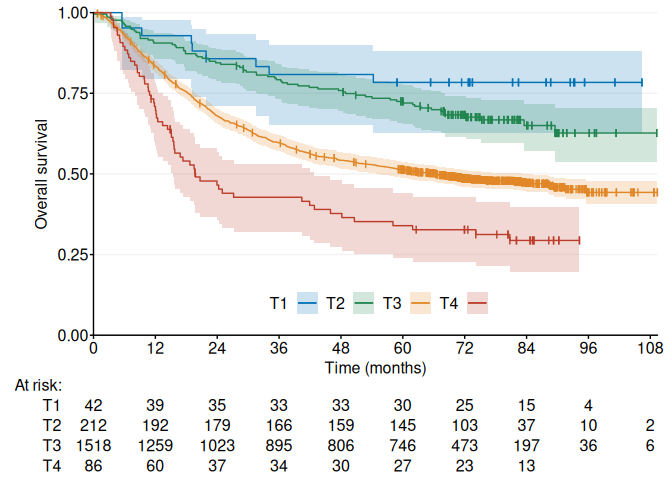
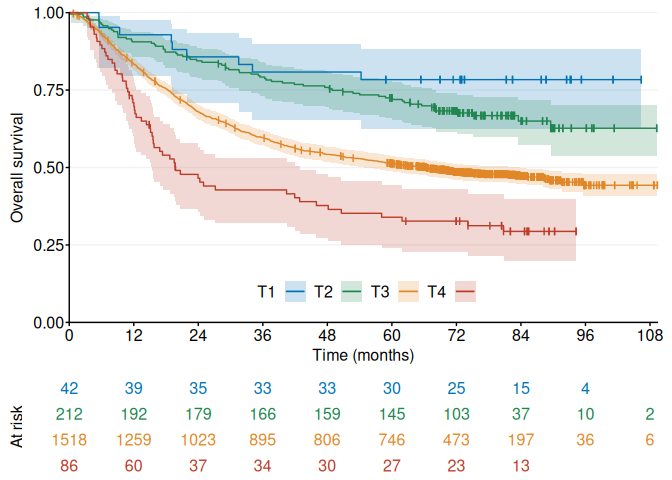
v0.14.0

diff --git a/docs/index.html b/docs/index.html
@@ -22,7 +22,7 @@
 
     <a class="navbar-brand me-2" href="index.html">ggKaplanMeier</a>
 
-    <small class="nav-text text-muted me-auto" data-bs-toggle="tooltip" data-bs-placement="bottom" title="">0.13.1</small>
+    <small class="nav-text text-muted me-auto" data-bs-toggle="tooltip" data-bs-placement="bottom" title="">0.14.0</small>
 
 
     <button class="navbar-toggler" type="button" data-bs-toggle="collapse" data-bs-target="#navbar" aria-controls="navbar" aria-expanded="false" aria-label="Toggle navigation">
@@ -84,7 +84,7 @@
 <div class="sourceCode" id="cb4"><pre class="downlit sourceCode r">
 <code class="sourceCode R"><span><span class="kw"><a href="https://rdrr.io/r/base/library.html" class="external-link">library</a></span><span class="op">(</span><span class="va"><a href="https://github.com/hongconsulting/ggKaplanMeier" class="external-link">ggKaplanMeier</a></span><span class="op">)</span></span>
 <span><span class="va">data</span> <span class="op">&lt;-</span> <span class="fu">survival</span><span class="fu">::</span><span class="va"><a href="https://rdrr.io/pkg/survival/man/colon.html" class="external-link">colon</a></span></span>
-<span><span class="va">fig1</span> <span class="op">&lt;-</span> <span class="fu"><a href="reference/ggKM.html">ggKM</a></span><span class="op">(</span><span class="va">data</span><span class="op">$</span><span class="va">time</span> <span class="op">*</span> <span class="fl">12</span> <span class="op">/</span> <span class="fl">365.2425</span>, <span class="va">data</span><span class="op">$</span><span class="va">status</span>, <span class="va">data</span><span class="op">$</span><span class="va">extent</span>, colors <span class="op">=</span> <span class="fu">ggsci</span><span class="fu">::</span><span class="fu"><a href="https://nanx.me/ggsci/reference/pal_nejm.html" class="external-link">pal_nejm</a></span><span class="op">(</span><span class="op">)</span><span class="op">(</span><span class="fl">4</span><span class="op">)</span><span class="op">[</span><span class="fu"><a href="https://rdrr.io/r/base/c.html" class="external-link">c</a></span><span class="op">(</span><span class="fl">2</span>, <span class="fl">4</span>, <span class="fl">3</span>, <span class="fl">1</span><span class="op">)</span><span class="op">]</span>, legend.direction <span class="op">=</span> <span class="st">"horizontal"</span>, legend.labels <span class="op">=</span> <span class="fu"><a href="https://rdrr.io/r/base/c.html" class="external-link">c</a></span><span class="op">(</span><span class="st">"T1"</span>, <span class="st">"T2"</span>, <span class="st">"T3"</span>, <span class="st">"T4"</span><span class="op">)</span>, legend.pos <span class="op">=</span> <span class="fu"><a href="https://rdrr.io/r/base/c.html" class="external-link">c</a></span><span class="op">(</span><span class="fl">0.5</span>, <span class="fl">0.1</span><span class="op">)</span>, margin.risk <span class="op">=</span> <span class="fl">24</span>, title.s <span class="op">=</span> <span class="st">"Overall survival"</span>, title.t <span class="op">=</span> <span class="st">"Time (months)"</span><span class="op">)</span></span>
+<span><span class="va">fig1</span> <span class="op">&lt;-</span> <span class="fu"><a href="reference/ggKM.html">ggKM</a></span><span class="op">(</span><span class="va">data</span><span class="op">$</span><span class="va">time</span> <span class="op">*</span> <span class="fl">12</span> <span class="op">/</span> <span class="fl">365.2425</span>, <span class="va">data</span><span class="op">$</span><span class="va">status</span>, <span class="va">data</span><span class="op">$</span><span class="va">extent</span>, colors <span class="op">=</span> <span class="fu">ggsci</span><span class="fu">::</span><span class="fu"><a href="https://nanx.me/ggsci/reference/pal_nejm.html" class="external-link">pal_nejm</a></span><span class="op">(</span><span class="op">)</span><span class="op">(</span><span class="fl">4</span><span class="op">)</span><span class="op">[</span><span class="fu"><a href="https://rdrr.io/r/base/c.html" class="external-link">c</a></span><span class="op">(</span><span class="fl">2</span>, <span class="fl">4</span>, <span class="fl">3</span>, <span class="fl">1</span><span class="op">)</span><span class="op">]</span>, legend.direction <span class="op">=</span> <span class="st">"horizontal"</span>, legend.labels <span class="op">=</span> <span class="fu"><a href="https://rdrr.io/r/base/c.html" class="external-link">c</a></span><span class="op">(</span><span class="st">"T1"</span>, <span class="st">"T2"</span>, <span class="st">"T3"</span>, <span class="st">"T4"</span><span class="op">)</span>, legend.pos <span class="op">=</span> <span class="fu"><a href="https://rdrr.io/r/base/c.html" class="external-link">c</a></span><span class="op">(</span><span class="fl">0.5</span>, <span class="fl">0.1</span><span class="op">)</span>, risk.table <span class="op">=</span> <span class="fl">2</span>, title.s <span class="op">=</span> <span class="st">"Overall survival"</span>, title.t <span class="op">=</span> <span class="st">"Time (months)"</span><span class="op">)</span></span>
 <span><span class="fu"><a href="https://rdrr.io/r/base/print.html" class="external-link">print</a></span><span class="op">(</span><span class="va">fig1</span><span class="op">)</span></span></code></pre></div>
 <p><img src="reference/figures/README-example_2-1.png"><!-- --></p>
 </div>

diff --git a/docs/reference/ggKM.html b/docs/reference/ggKM.html
@@ -9,7 +9,7 @@ table."></head><body>
 
     <a class="navbar-brand me-2" href="../index.html">ggKaplanMeier</a>
 
-    <small class="nav-text text-muted me-auto" data-bs-toggle="tooltip" data-bs-placement="bottom" title="">0.13.1</small>
+    <small class="nav-text text-muted me-auto" data-bs-toggle="tooltip" data-bs-placement="bottom" title="">0.14.0</small>
 
 
     <button class="navbar-toggler" type="button" data-bs-toggle="collapse" data-bs-target="#navbar" aria-controls="navbar" aria-expanded="false" aria-label="Toggle navigation">
@@ -71,7 +71,7 @@ table.</p>
 <span>  line.width <span class="op">=</span> <span class="fl">0.5</span>,</span>
 <span>  line.height <span class="op">=</span> <span class="fl">0.025</span>,</span>
 <span>  max.t <span class="op">=</span> <span class="cn">NULL</span>,</span>
-<span>  risk.table <span class="op">=</span> <span class="cn">TRUE</span>,</span>
+<span>  risk.table <span class="op">=</span> <span class="fl">1</span>,</span>
 <span>  risk.table.prop <span class="op">=</span> <span class="fl">0.2</span>,</span>
 <span>  t.labels <span class="op">=</span> <span class="cn">NULL</span>,</span>
 <span>  textsize.axis <span class="op">=</span> <span class="fl">12</span>,</span>
@@ -244,7 +244,10 @@ the Kaplan–Meier plot and risk table are displayed.</p></dd>
 
 
 <dt id="arg-risk-table">risk.table<a class="anchor" aria-label="anchor" href="#arg-risk-table"></a></dt>
-<dd><p>Logical; if <code>TRUE</code>, show risk table. Default = <code>TRUE</code>.</p></dd>
+<dd><p>Integer specifying the risk table mode:</p><ul><li><p><code>0</code>: No risk table</p></li>
+<li><p><code>1</code> (default): Labelled risk table</p></li>
+<li><p><code>2</code>: Color-coded risk table</p></li>
+</ul></dd>
 
 
 <dt id="arg-risk-table-prop">risk.table.prop<a class="anchor" aria-label="anchor" href="#arg-risk-table-prop"></a></dt>
@@ -282,7 +285,7 @@ time-axis breaks defined by <code>breaks.t</code>.</p></dd>
 </dl></div>
     <div class="section level2">
     <h2 id="value">Value<a class="anchor" aria-label="anchor" href="#value"></a></h2>
-    <p>A <code>ggplot</code> (+ <code>patchwork</code> if <code>risk.table</code> = <code>TRUE</code>) object.</p>
+    <p>A <code>ggplot</code> (+ <code>patchwork</code> if <code>risk.table</code> ≥ <code>1</code>) object.</p>
     </div>
     <div class="section level2">
     <h2 id="details">Details<a class="anchor" aria-label="anchor" href="#details"></a></h2>
@@ -293,7 +296,7 @@ containing the following variables:</p><ul><li><p><code>.time</code>: Numeric ve
 <li><p><code>.status</code>: Integer vector event indicator (<code>1</code> = event, <code>0</code> =
 censored) for the current <code>group</code></p></li>
 <li><p><code>.weights</code>: Numeric vector of weights for the current <code>group</code></p></li>
-</ul><p>The custom function must return a <code>data.frame</code> with the following columns:</p><ul><li><p><code>$time</code>: unique event times</p></li>
+</ul><p>The custom function must return a <code>data.frame</code> with the following columns:</p><ul><li><p><code>$time</code>: times</p></li>
 <li><p><code>$surv</code>: survival estimate</p></li>
 <li><p><code>$lower</code>: lower confidence limit</p></li>
 <li><p><code>$upper</code>: upper confidence limit</p></li>

diff --git a/docs/authors.html b/docs/authors.html
@@ -7,7 +7,7 @@
 
     <a class="navbar-brand me-2" href="index.html">ggKaplanMeier</a>
 
-    <small class="nav-text text-muted me-auto" data-bs-toggle="tooltip" data-bs-placement="bottom" title="">0.13.1</small>
+    <small class="nav-text text-muted me-auto" data-bs-toggle="tooltip" data-bs-placement="bottom" title="">0.14.0</small>
 
 
     <button class="navbar-toggler" type="button" data-bs-toggle="collapse" data-bs-target="#navbar" aria-controls="navbar" aria-expanded="false" aria-label="Toggle navigation">
@@ -45,13 +45,13 @@
 
       <p>Hong W (2025).
 <em>ggKaplanMeier: Kaplan-Meier plots</em>.
-R package version 0.13.1, <a href="https://github.com/hongconsulting/ggKaplanMeier" class="external-link">https://github.com/hongconsulting/ggKaplanMeier</a>.
+R package version 0.14.0, <a href="https://github.com/hongconsulting/ggKaplanMeier" class="external-link">https://github.com/hongconsulting/ggKaplanMeier</a>.
 </p>
       <pre>@Manual{,
   title = {ggKaplanMeier: Kaplan-Meier plots},
   author = {Wei Hong},
   year = {2025},
-  note = {R package version 0.13.1},
+  note = {R package version 0.14.0},
   url = {https://github.com/hongconsulting/ggKaplanMeier},
 }</pre>
     </div>

diff --git a/docs/404.html b/docs/404.html
@@ -20,7 +20,7 @@
 
     <a class="navbar-brand me-2" href="https://hongconsulting.github.io/ggKaplanMeier/index.html">ggKaplanMeier</a>
 
-    <small class="nav-text text-muted me-auto" data-bs-toggle="tooltip" data-bs-placement="bottom" title="">0.13.1</small>
+    <small class="nav-text text-muted me-auto" data-bs-toggle="tooltip" data-bs-placement="bottom" title="">0.14.0</small>
 
 
     <button class="navbar-toggler" type="button" data-bs-toggle="collapse" data-bs-target="#navbar" aria-controls="navbar" aria-expanded="false" aria-label="Toggle navigation">

diff --git a/docs/reference/index.html b/docs/reference/index.html
@@ -7,7 +7,7 @@
 
     <a class="navbar-brand me-2" href="../index.html">ggKaplanMeier</a>
 
-    <small class="nav-text text-muted me-auto" data-bs-toggle="tooltip" data-bs-placement="bottom" title="">0.13.1</small>
+    <small class="nav-text text-muted me-auto" data-bs-toggle="tooltip" data-bs-placement="bottom" title="">0.14.0</small>
 
 
     <button class="navbar-toggler" type="button" data-bs-toggle="collapse" data-bs-target="#navbar" aria-controls="navbar" aria-expanded="false" aria-label="Toggle navigation">

diff --git a/docs/LICENSE.html b/docs/LICENSE.html
@@ -7,7 +7,7 @@
 
     <a class="navbar-brand me-2" href="index.html">ggKaplanMeier</a>
 
-    <small class="nav-text text-muted me-auto" data-bs-toggle="tooltip" data-bs-placement="bottom" title="">0.13.1</small>
+    <small class="nav-text text-muted me-auto" data-bs-toggle="tooltip" data-bs-placement="bottom" title="">0.14.0</small>
 
 
     <button class="navbar-toggler" type="button" data-bs-toggle="collapse" data-bs-target="#navbar" aria-controls="navbar" aria-expanded="false" aria-label="Toggle navigation">

diff --git a/README.md b/README.md
@@ -54,7 +54,7 @@ print(fig1b)
 ``` r
 library(ggKaplanMeier)
 data <- survival::colon
-fig1 <- ggKM(data$time * 12 / 365.2425, data$status, data$extent, colors = ggsci::pal_nejm()(4)[c(2, 4, 3, 1)], legend.direction = "horizontal", legend.labels = c("T1", "T2", "T3", "T4"), legend.pos = c(0.5, 0.1), margin.risk = 24, title.s = "Overall survival", title.t = "Time (months)")
+fig1 <- ggKM(data$time * 12 / 365.2425, data$status, data$extent, colors = ggsci::pal_nejm()(4)[c(2, 4, 3, 1)], legend.direction = "horizontal", legend.labels = c("T1", "T2", "T3", "T4"), legend.pos = c(0.5, 0.1), risk.table = 2, title.s = "Overall survival", title.t = "Time (months)")
 print(fig1)
 ```
 
